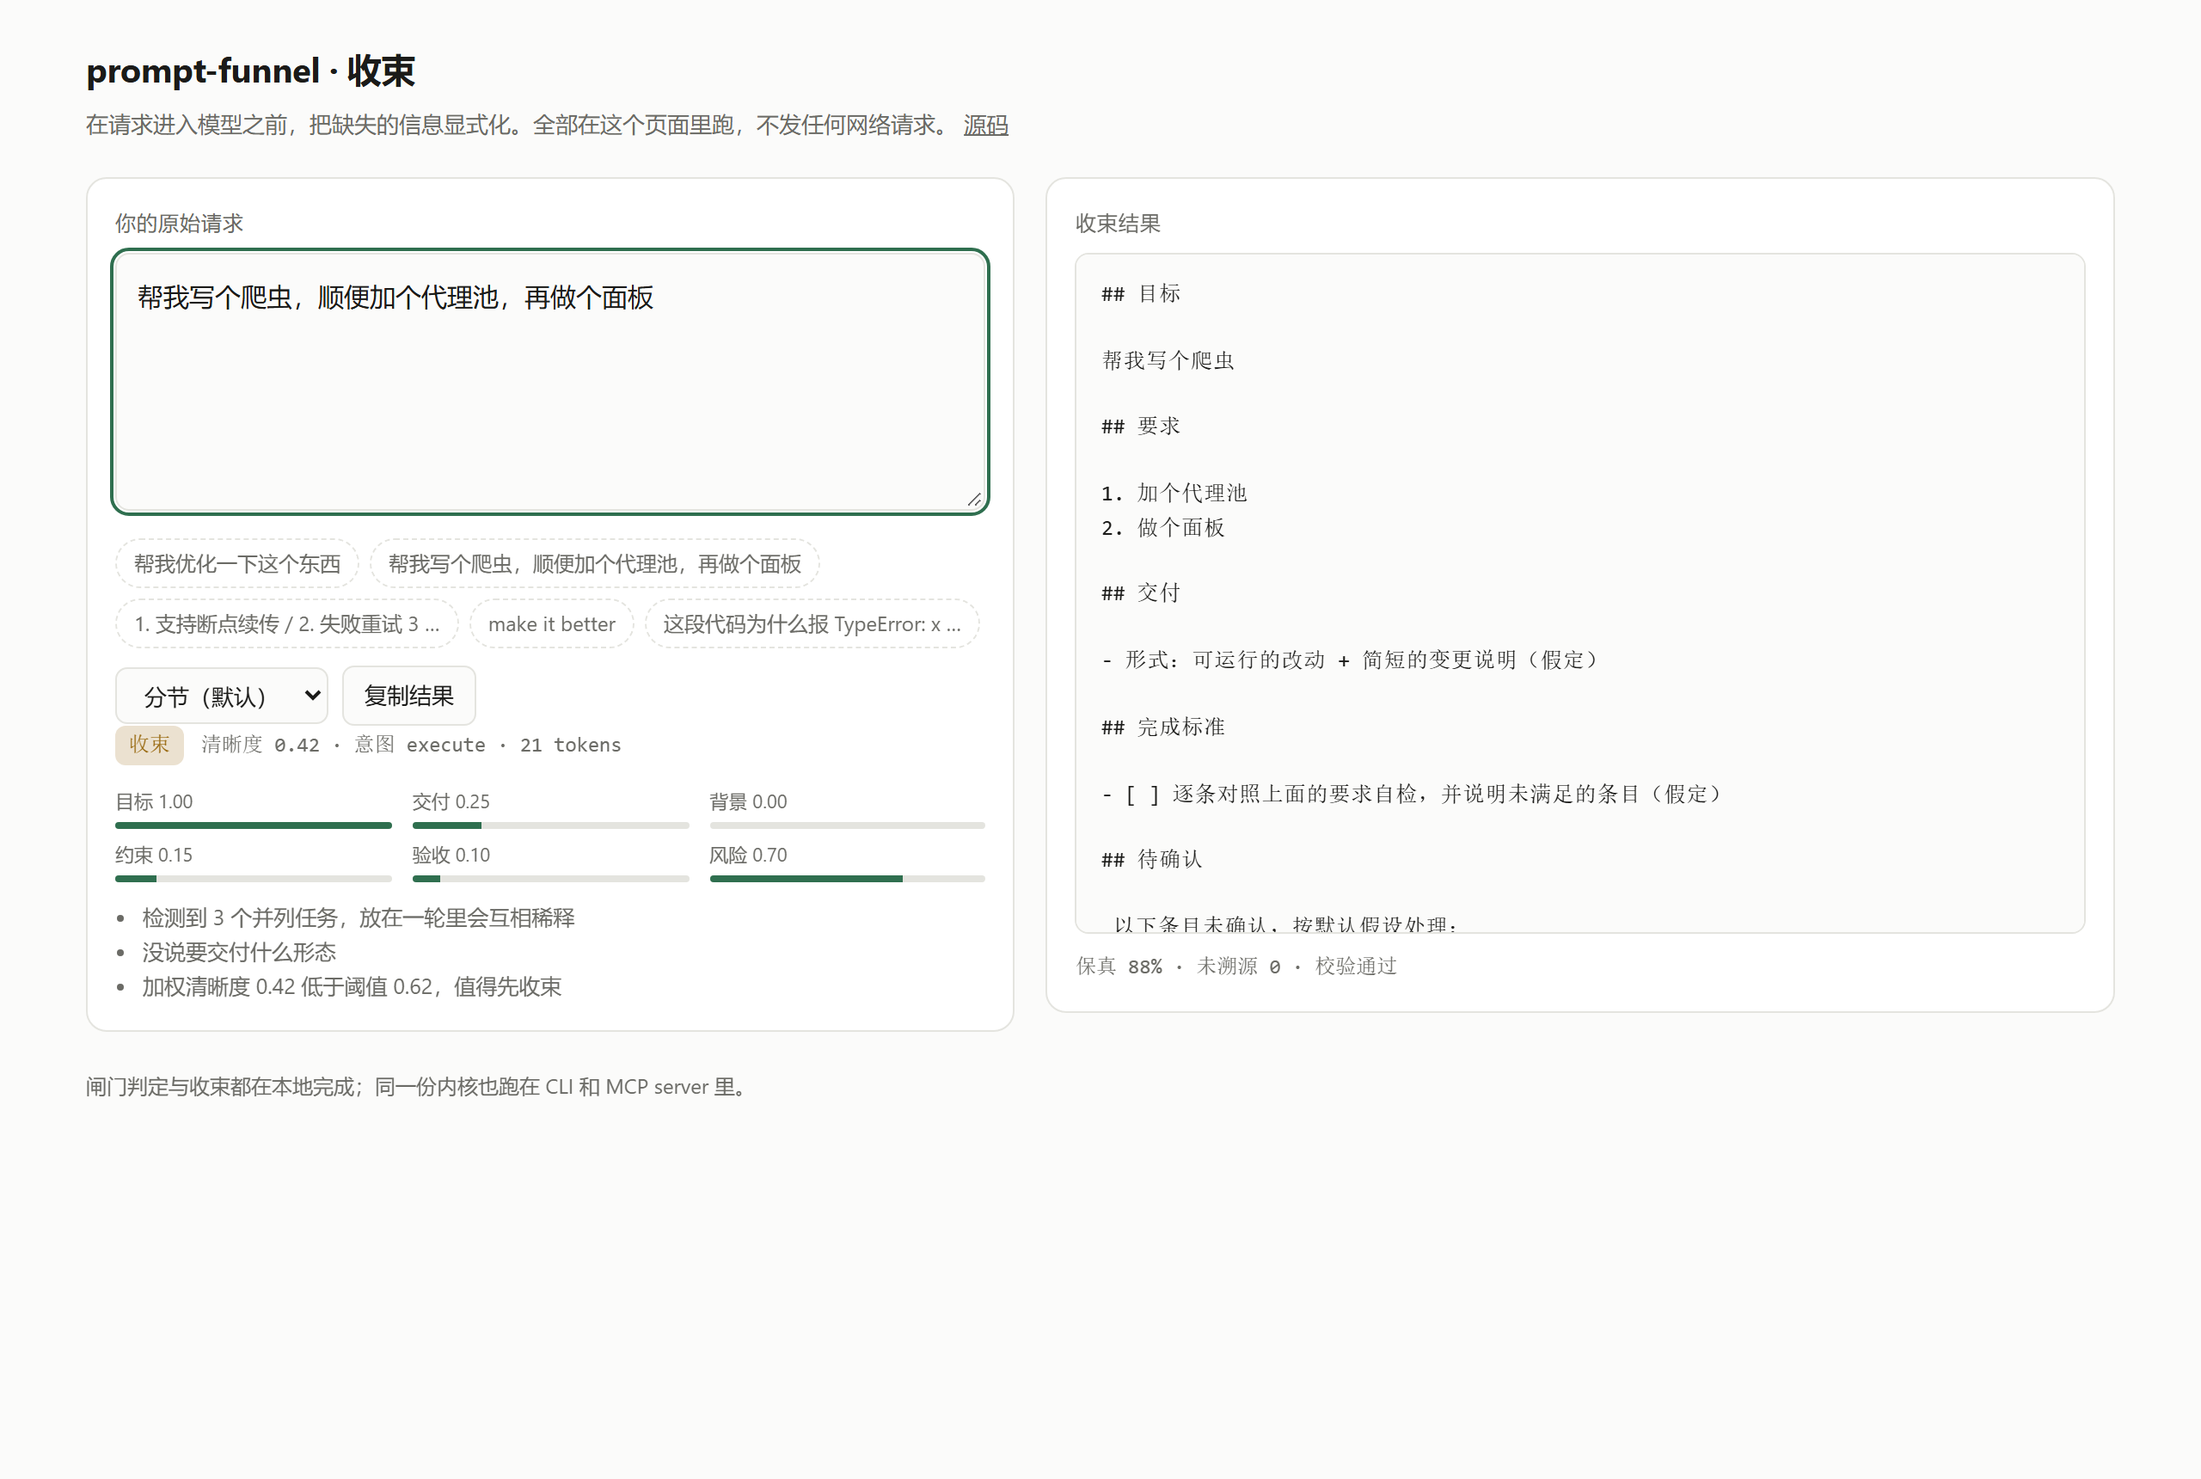
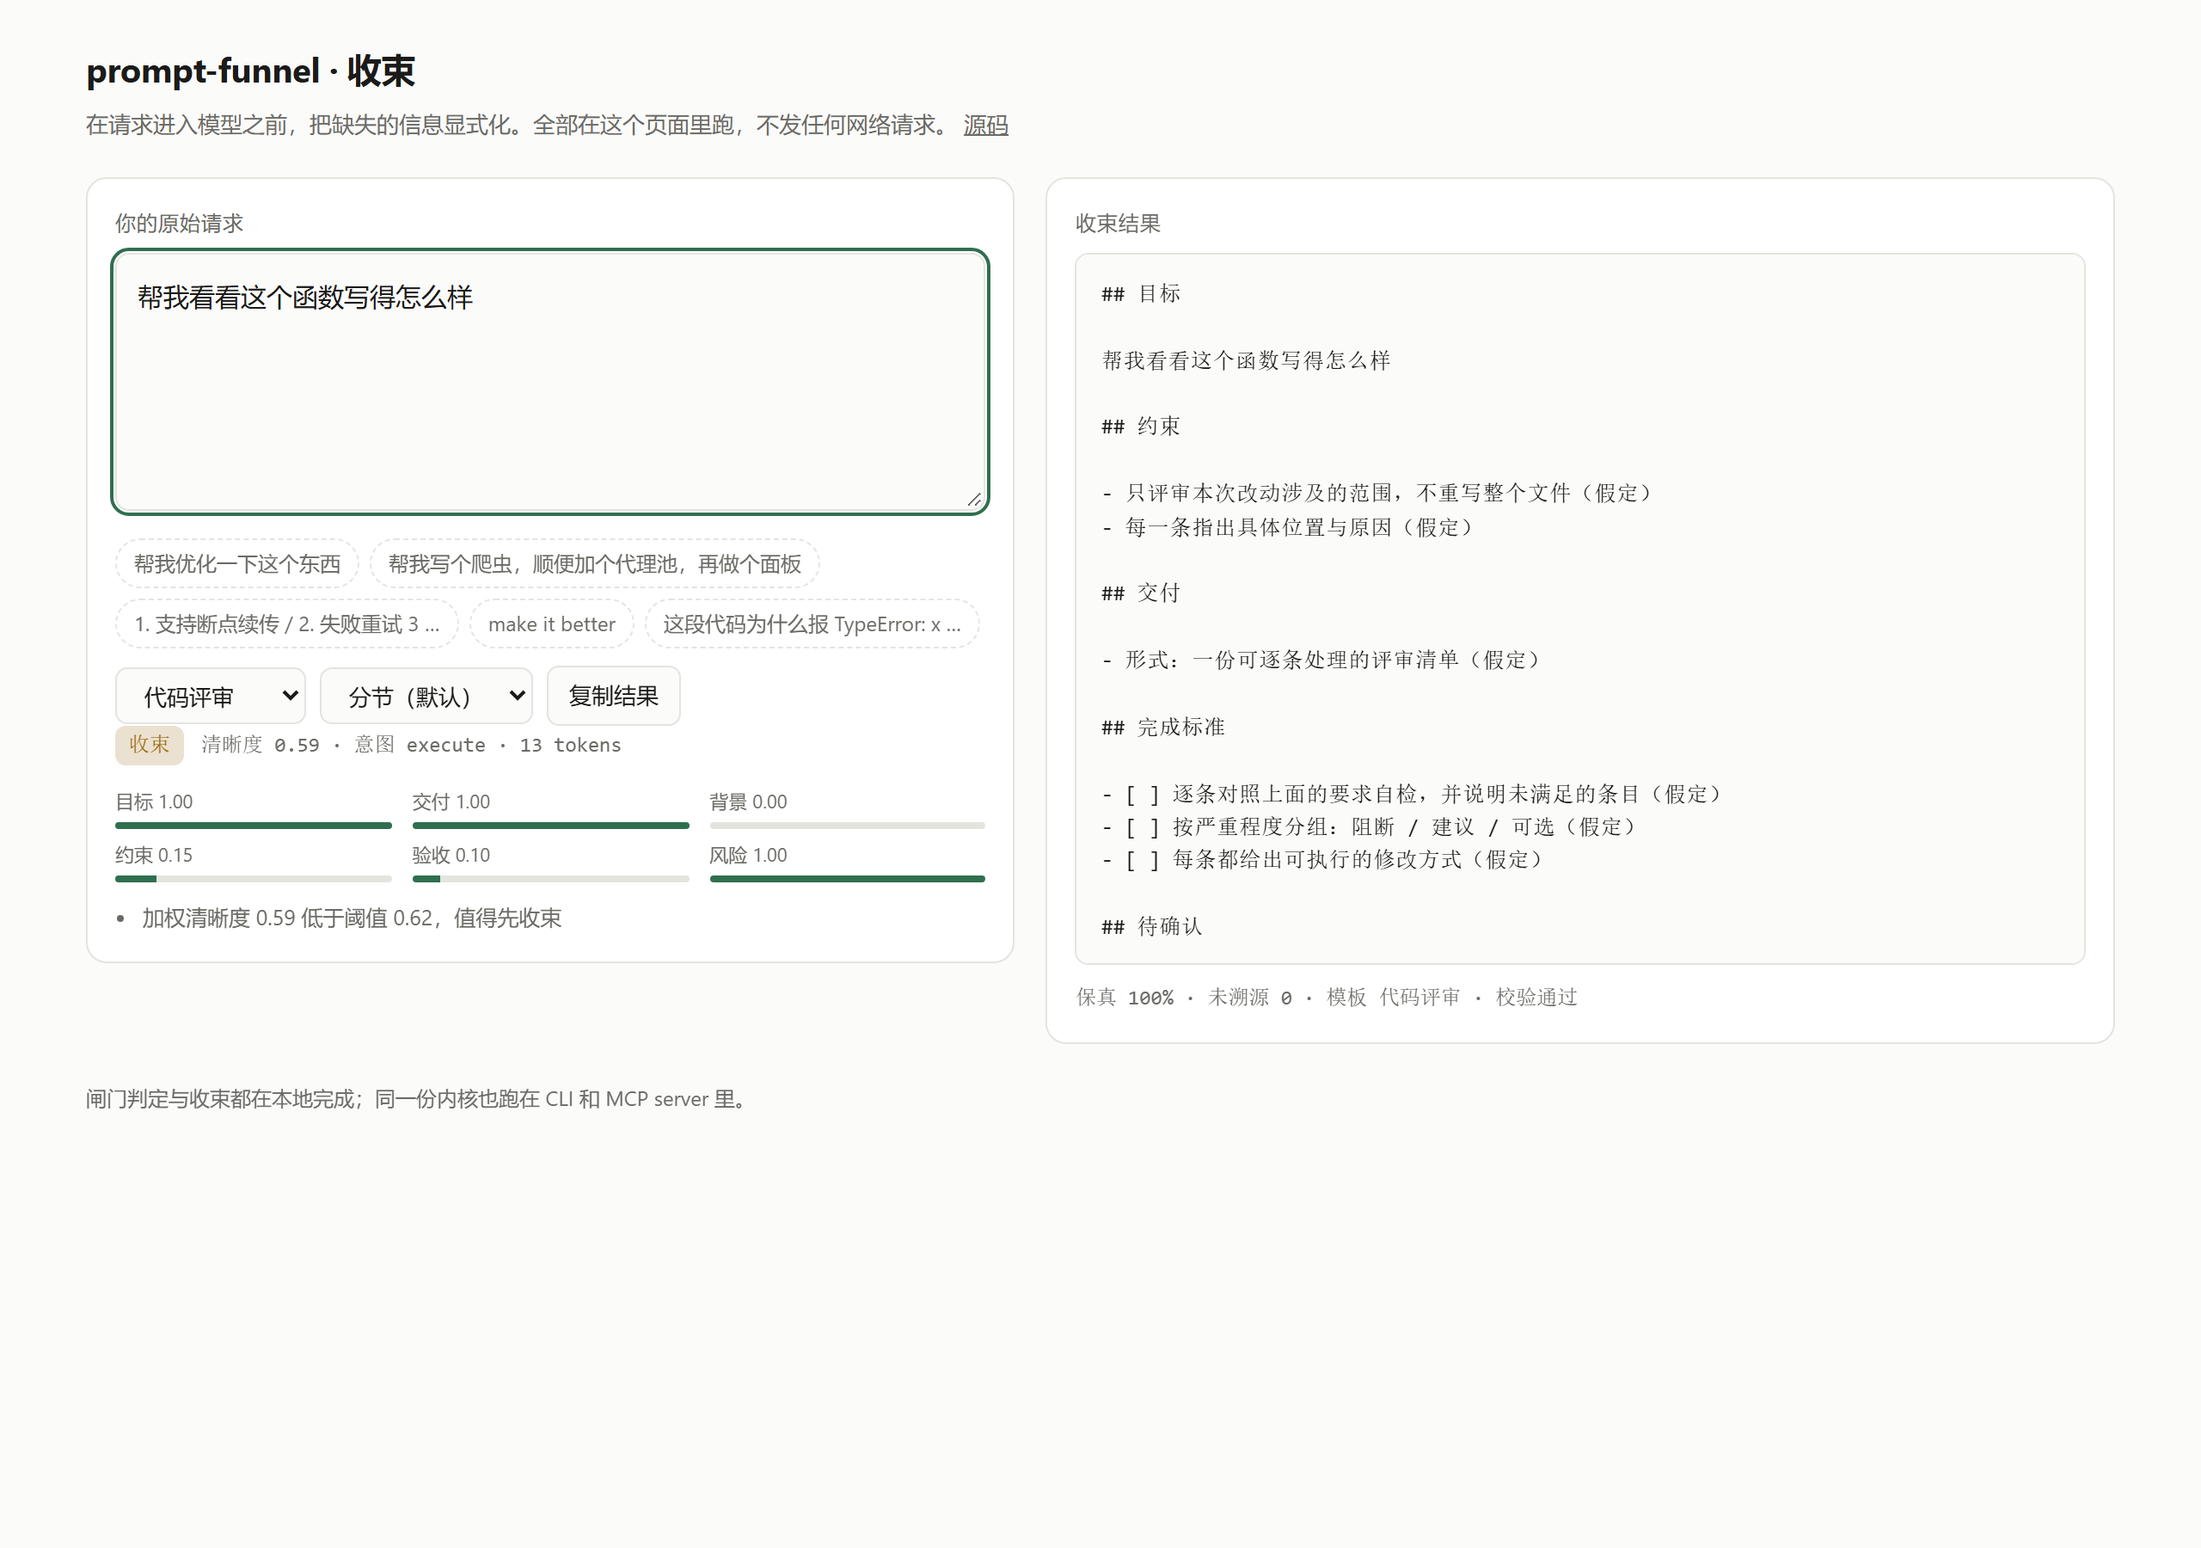
feat(playground): template selector; commit A/B evidence
- playground: choose an intent template (code-review / debug / …) and see the
  done-state it supplies, without installing anything.
- evals/ab-2026-11-01: the summary, the blind rating sheet, and three paired
  samples backing every claim in docs/AB-REPORT.md.

diff --git a/playground/index.html b/playground/index.html
@@ -130,6 +130,15 @@
         <textarea id="input" spellcheck="false" placeholder="例如：帮我优化一下这个东西"></textarea>
         <div class="chips" id="samples"></div>
         <div class="row">
+          <select id="template" aria-label="模板">
+            <option value="default">模板：通用</option>
+            <option value="code-review">代码评审</option>
+            <option value="debug">排障</option>
+            <option value="data-analysis">数据分析</option>
+            <option value="writing">写作</option>
+            <option value="image-prompt">图像提示词</option>
+            <option value="research">调研</option>
+          </select>
           <select id="style" aria-label="排版">
             <option value="bluf">分节（默认）</option>
             <option value="compact">紧凑</option>
@@ -155,12 +164,14 @@
       import { gate } from './dist/gate.js';
       import { analyzeWithRules } from './dist/analyze.js';
       import { renderSpec } from './dist/render.js';
+      import { applyTemplate, getTemplate } from './dist/templates.js';
 
       const input = document.getElementById('input');
       const gateBox = document.getElementById('gate');
       const out = document.getElementById('out');
       const meta = document.getElementById('fidelity');
       const style = document.getElementById('style');
+      const template = document.getElementById('template');
 
       const AXIS_LABEL = {
         goal: '目标',
@@ -230,13 +241,16 @@
         const verdict = gate(text);
         renderGate(verdict);
 
-        const spec = analyzeWithRules(text, verdict);
+        const base = analyzeWithRules(text, verdict);
+        const chosen = getTemplate(template.value);
+        const spec = chosen.id === 'default' ? base : applyTemplate(base, chosen);
         const rendered = renderSpec(spec, { style: style.value });
         out.textContent = rendered.text.trimEnd();
 
         const errors = rendered.fidelity.issues.filter((issue) => issue.severity === 'error');
         const retention = (rendered.fidelity.retention * 100).toFixed(0);
-        meta.innerHTML = `保真 ${retention}% · 未溯源 ${rendered.fidelity.unverifiable.length} · ` +
+        const templateNote = chosen.id === 'default' ? '' : ` · 模板 ${chosen.label}`;
+        meta.innerHTML = `保真 ${retention}% · 未溯源 ${rendered.fidelity.unverifiable.length}${templateNote} · ` +
           (errors.length > 0
             ? `<span class="bad">${errors.length} 个错误</span>`
             : `<span>校验通过</span>`);
@@ -244,6 +258,7 @@
 
       input.addEventListener('input', schedule);
       style.addEventListener('change', render);
+      template.addEventListener('change', render);
 
       document.getElementById('copy').addEventListener('click', async () => {
         try {

diff --git a/evals/ab-2026-11-01/multi-goal.compiled.1.md b/evals/ab-2026-11-01/multi-goal.compiled.1.md
@@ -1,0 +1,110 @@
+# 爬虫 + 代理池 + 可视化面板 完整实现
+
+由于你未指定目标网站，我采用 **Python 技术栈**，以 `https://httpbin.org/ip` 作为**示例目标**（可验证代理是否生效），你可以替换成任意目标站点。整体架构如下：
+
+```
+┌─────────────┐    ┌──────────────┐    ┌────────────────┐
+│  爬虫 Worker │───▶│   代理池      │───▶│  目标网站       │
+│  (多线程)    │    │ (健康检测)    │    └────────────────┘
+└──────┬──────┘    └──────┬───────┘
+       │                  │
+       └────────┬─────────┘
+                ▼
+        ┌───────────────┐
+        │  SQLite 数据   │
+        └───────┬───────┘
+                ▼
+        ┌───────────────┐
+        │ Flask + 前端   │  ← 可视化面板
+        └───────────────┘
+```
+
+## 文件结构
+
+```
+spider_project/
+├── requirements.txt
+├── config.py
+├── proxy_pool.py
+├── spider.py
+├── app.py
+├── templates/
+│   └── dashboard.html
+└── data.db          # 运行时自动生成
+```
+
+---
+
+## 1. `requirements.txt`
+
+```txt
+requests>=2.31.0
+flask>=3.0.0
+```
+
+## 2. `config.py`
+
+```python
+# 目标网站（示例：httpbin 返回请求来源 IP，可换成任意站点）
+TARGET_URL = "https://httpbin.org/ip"
+
+# 爬取总量与并发
+TOTAL_TASKS = 50
+WORKER_THREADS = 5
+
+# 代理池配置
+PROXY_CHECK_URL = "https://httpbin.org/ip"
+PROXY_CHECK_TIMEOUT = 5
+PROXY_MAX_FAIL = 3          # 连续失败几次后剔除
+PROXY_REFRESH_INTERVAL = 60 # 秒，定期重新检测
+
+# 数据库
+DB_PATH = "data.db"
+
+# 请求头
+HEADERS = {
+    "User-Agent": "Mozilla/5.0 (compatible; DemoSpider/1.0)"
+}
+
+# 初始代理列表（示例：公开代理，生产环境请替换成你自己的代理源）
+INITIAL_PROXIES = [
+    # "http://user:pass@1.2.3.4:8080",
+    # "http://5.6.7.8:3128",
+]
+```
+
+## 3. `proxy_pool.py` — 代理池
+
+```python
+import threading
+import time
+import requests
+from config import (
+    PROXY_CHECK_URL, PROXY_CHECK_TIMEOUT, PROXY_MAX_FAIL,
+    PROXY_REFRESH_INTERVAL, INITIAL_PROXIES, HEADERS,
+)
+
+
+class ProxyPool:
+    """线程安全的代理池：检测可用性、轮询取用、失败计数剔除。"""
+
+    def __init__(self, proxies=None):
+        self._lock = threading.Lock()
+        self._proxies = {}
+        for p in (proxies if proxies is not None else INITIAL_PROXIES):
+            self._proxies[p] = {"fail": 0, "alive": False, "last_ok": 0}
+        self._index = 0
+        self._stop = False
+
+    # ---------- 对外接口 ----------
+    def add(self, proxy):
+        with self._lock:
+            self._proxies.setdefault(proxy, {"fail": 0, "alive": False, "last_ok": 0})
+
+    def get(self):
+        """轮询返回一个存活代理，无可用则返回 None。"""
+        with self._lock:
+            alive = [p for p, v in self._proxies.items() if v["alive"]]
+            if not alive:
+                return None
+            self._index = (self._index + 1) % len(al

diff --git a/evals/ab-2026-11-01/multi-goal.raw.1.md b/evals/ab-2026-11-01/multi-goal.raw.1.md
@@ -1,0 +1,118 @@
+# 完整爬虫 + 代理池 + 可视化面板方案
+
+下面给你一套**可直接运行**的完整方案，包含三个模块：
+
+1. **代理池**（自动采集 + 校验 + 存储）
+2. **爬虫**（带代理轮换、重试、并发）
+3. **可视化面板**（Flask + ECharts）
+
+---
+
+## 📁 项目结构
+
+```
+spider_project/
+├── proxy_pool/
+│   ├── __init__.py
+│   ├── fetcher.py        # 代理抓取
+│   ├── validator.py      # 代理校验
+│   └── pool.py           # 代理池管理
+├── spider/
+│   ├── __init__.py
+│   └── crawler.py        # 爬虫主体
+├── dashboard/
+│   ├── app.py            # Flask 面板
+│   └── templates/
+│       └── index.html    # 前端页面
+├── data/
+│   └── results.json      # 爬取结果
+├── requirements.txt
+└── main.py               # 主入口
+```
+
+---
+
+## 1⃣ requirements.txt
+
+```txt
+requests>=2.31.0
+beautifulsoup4>=4.12.0
+flask>=3.0.0
+aiohttp>=3.9.0
+lxml>=4.9.0
+```
+
+安装：
+```bash
+pip install -r requirements.txt
+```
+
+---
+
+## 2⃣ 代理池模块
+
+### `proxy_pool/fetcher.py` — 从免费源抓取代理
+
+```python
+import requests
+import re
+from concurrent.futures import ThreadPoolExecutor
+
+# 免费代理源（可自行扩展）
+PROXY_SOURCES = [
+    "https://raw.githubusercontent.com/TheSpeedX/PROXY-List/master/http.txt",
+    "https://raw.githubusercontent.com/monosans/proxy-list/main/proxies/http.txt",
+    "https://raw.githubusercontent.com/clarketm/proxy-list/master/proxy-list-raw.txt",
+]
+
+def fetch_from_source(url: str) -> list[str]:
+    """从单个源抓取代理"""
+    try:
+        resp = requests.get(url, timeout=10)
+        resp.raise_for_status()
+        # 匹配 ip:port 格式
+        proxies = re.findall(r'\b(?:\d{1,3}\.){3}\d{1,3}:\d{2,5}\b', resp.text)
+        return list(set(proxies))
+    except Exception as e:
+        print(f"[抓取失败] {url}: {e}")
+        return []
+
+def fetch_all_proxies() -> list[str]:
+    """并发抓取所有源的代理"""
+    all_proxies = set()
+    with ThreadPoolExecutor(max_workers=5) as executor:
+        results = executor.map(fetch_from_source, PROXY_SOURCES)
+        for proxies in results:
+            all_proxies.update(proxies)
+    print(f"[代理池] 抓取到 {len(all_proxies)} 个原始代理")
+    return list(all_proxies)
+```
+
+### `proxy_pool/validator.py` — 校验代理可用性
+
+```python
+import requests
+from concurrent.futures import ThreadPoolExecutor
+
+# 用于校验的测试地址
+TEST_URL = "http://httpbin.org/ip"
+TIMEOUT = 5
+
+def validate_proxy(proxy: str) -> str | None:
+    """校验单个代理，返回可用代理或 None"""
+    proxies = {"http": f"http://{proxy}", "https": f"http://{proxy}"}
+    try:
+        resp = requests.get(TEST_URL, proxies=proxies, timeout=TIMEOUT)
+        if resp.status_code == 200:
+            return proxy
+    except Exception:
+        pass
+    return None
+
+def validate_proxies(proxies: list[str], max_workers: int = 50) -> list[str]:
+    """并发校验代理"""
+    valid = []
+    with ThreadPoolExecutor(max_workers=max_workers) as executor:
+        results = executor.map(validate_proxy, proxies)
+        for p in results:
+            if p

diff --git a/evals/ab-2026-11-01/vague-optimize.compiled.1.md b/evals/ab-2026-11-01/vague-optimize.compiled.1.md
@@ -1,0 +1,9 @@
+你还没有提供“这个东西”的具体内容，所以我目前无法直接优化。请把原文、代码或文件发来，并补充以下信息（不确定可写“默认”）：
+
+1. **要优化的对象**：文本 / 代码 / 方案 / 简历 / 文案 / 其他
+2. **优化目标**：更通顺、更简洁、更专业、提性能、降复杂度、增强说服力等
+3. **交付形式**：直接给优化后版本 / 给修改对照 / 给修改说明 / 只要建议
+4. **受众或使用场景**：给谁看、用在哪里
+5. **限制条件**：字数、语气、技术栈、必须保留的信息等
+
+你也可以直接发内容并说一句“按默认：通顺简洁、给修改对照”，我就按这个假设处理。

diff --git a/evals/ab-2026-11-01/vague-optimize.raw.1.md b/evals/ab-2026-11-01/vague-optimize.raw.1.md
@@ -1,0 +1,16 @@
+你还没有把需要优化的内容发给我哦。请把你想优化的东西贴上来，比如：
+
+- **一段文字**（文案、邮件、报告、论文段落）
+- **一段代码**（说明语言和用途）
+- **一个提示词 / Prompt**
+- **一个产品描述、简历、方案**等
+
+另外，告诉我优化目标会更有帮助，例如：
+
+- 更简洁 / 更专业 / 更有说服力
+- 提升可读性
+- 修复语法或逻辑问题
+- 提高代码性能 / 可维护性
+- 适配特定读者或平台
+
+把内容发过来，我就开始帮你优化。

diff --git a/evals/ab-2026-11-01/summary.md b/evals/ab-2026-11-01/summary.md
@@ -1,0 +1,14 @@
+# Live A/B · deepseek-chat
+
+- 时间：2026-11-01T12:49:02.813Z
+- 调用：60 次（10 用例 × 2 组 × 3 次采样，temperature 0.7）
+
+| 指标 | 原文直发 | 收束后 |
+| --- | --- | --- |
+| 关键内容命中率 | 97% | 100% |
+| 平均响应长度（字符） | 1668 | 1586 |
+| 平均延迟（ms） | 268 | 182 |
+| 输入 tokens | 18 | 276 |
+
+> 命中率只说明「回答里有没有出现请求中的关键字面量」，它不衡量质量。
+> 质量判断见 rating.csv：盲评四列，样本顺序已打乱。

diff --git a/evals/ab-2026-11-01/english-vague.compiled.1.md b/evals/ab-2026-11-01/english-vague.compiled.1.md
@@ -1,0 +1,9 @@
+I can't improve "it" yet because your message doesn't include the thing you want made better.
+
+To proceed, please share:
+
+1. **The artifact** — paste the text, code, document, or describe the file.
+2. **What "better" means** — e.g., clearer, shorter, faster, more correct, more polished, better structured.
+3. **Any constraints** — target audience, length limit, tone, language, format, or things to preserve.
+
+If you'd like, send the material and I'll return an improved version plus a short note on what I changed and why.

diff --git a/evals/ab-2026-11-01/english-vague.raw.1.md b/evals/ab-2026-11-01/english-vague.raw.1.md
@@ -1,0 +1,8 @@
+I'd be happy to help improve your prompt, but I don't see any content in your message to work with—just "make it better."
+
+Could you share:
+1. **The original text/prompt/code** you want improved
+2. **What "better" means** for you (clearer? shorter? more persuasive? more detailed? better formatted?)
+3. **The target audience or use case** (e.g., a job application, a blog post, an AI prompt, an email)
+
+Once you paste the content, I'll give you a polished version plus a quick note on what I changed and why.

diff --git a/docs/AB-REPORT.md b/docs/AB-REPORT.md
@@ -12,6 +12,8 @@
 
 原始输出在同目录的 `evals/live/<model>-<时间戳>/`（未提交，`.gitignore` 已忽略）。
 
+本次运行的**证据文件**提交在 [`evals/ab-2026-11-01/`](../evals/ab-2026-11-01/)：汇总表、盲评表，以及三组可对照的成对样本（`*.raw.1.md` / `*.compiled.1.md`）。完整 60 份输出不提交，需要时用上面的命令重跑。
+
 ## 结果
 
 | 指标 | 原文直发 | 收束后 | 说明 |
